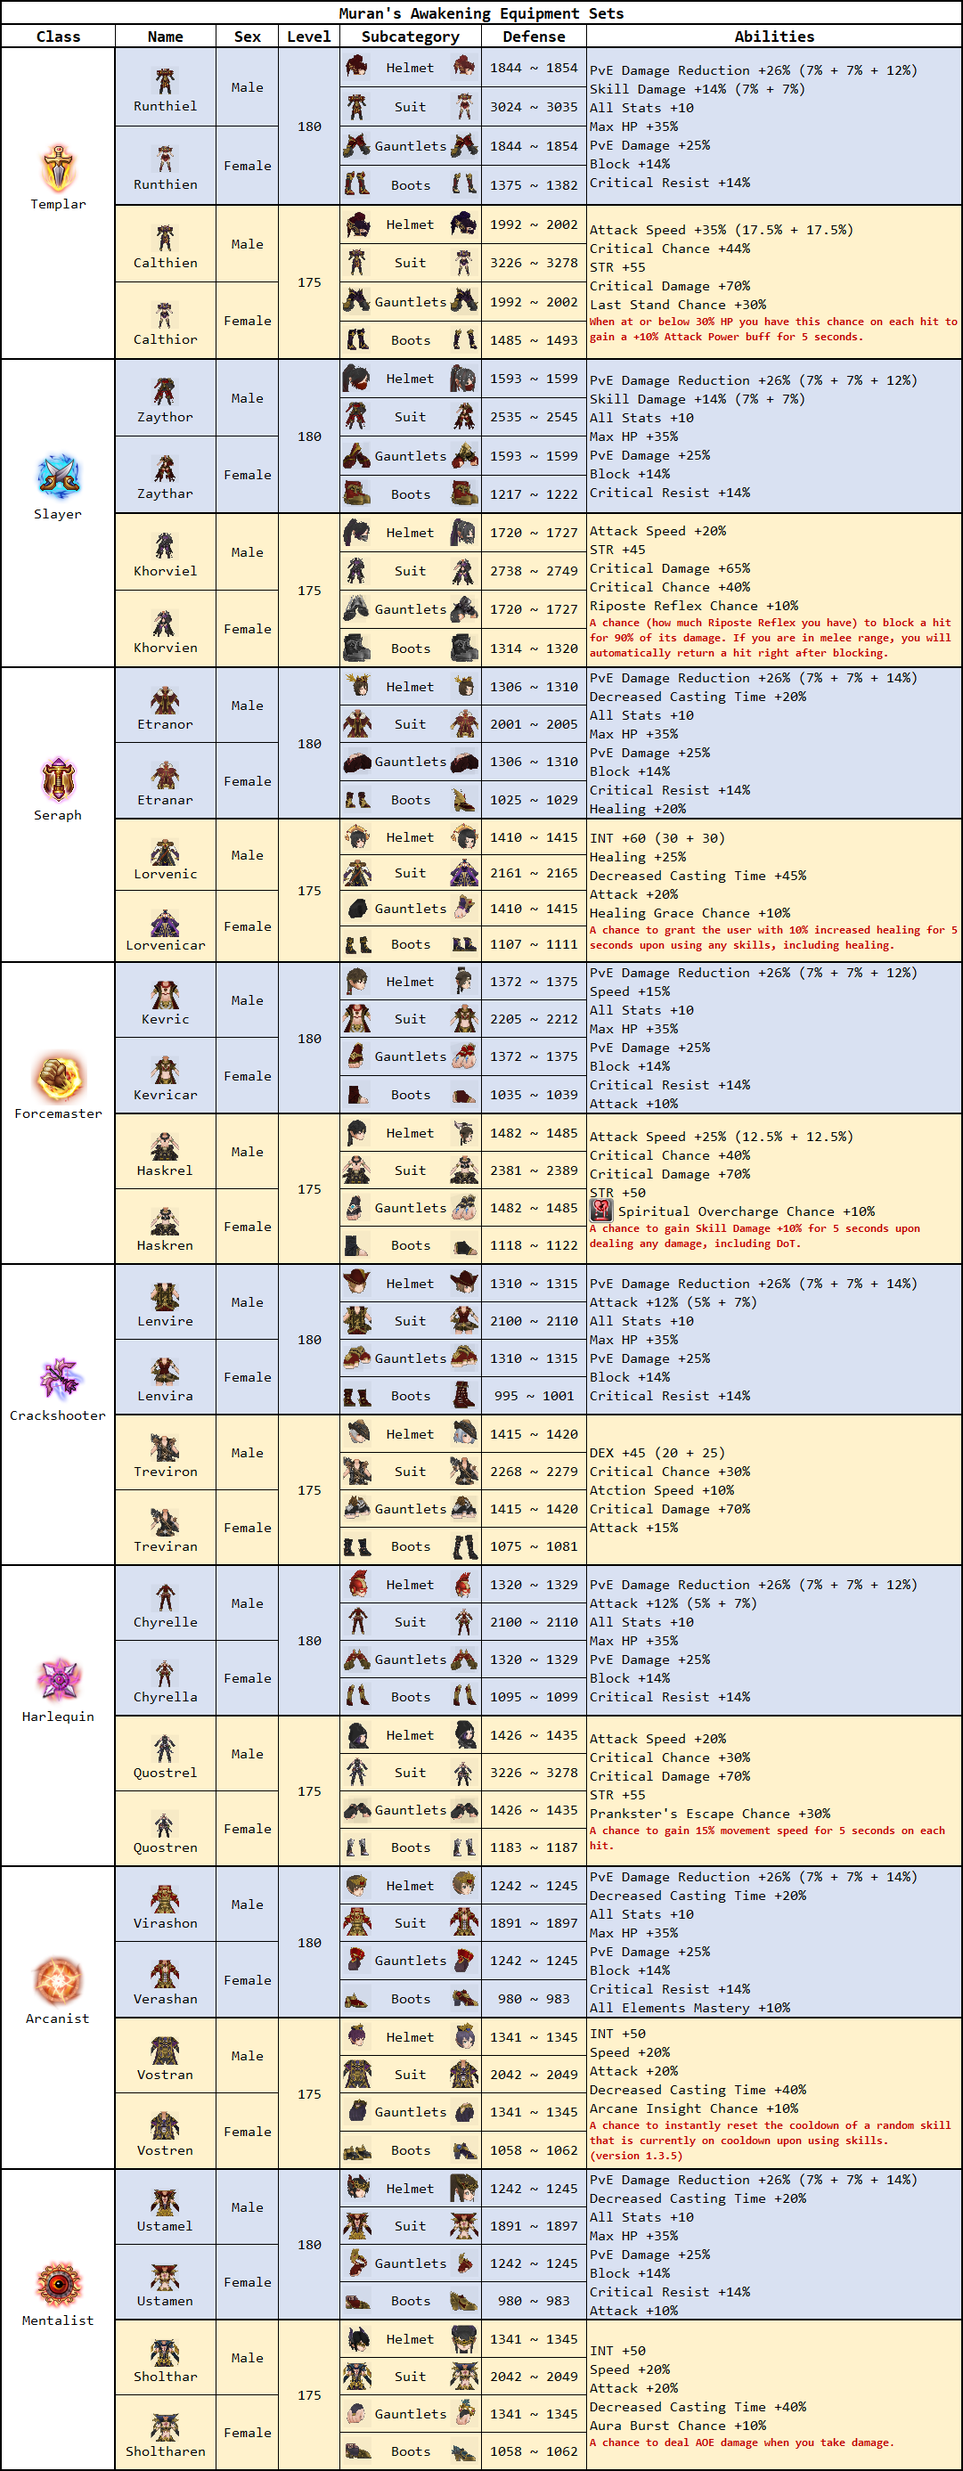
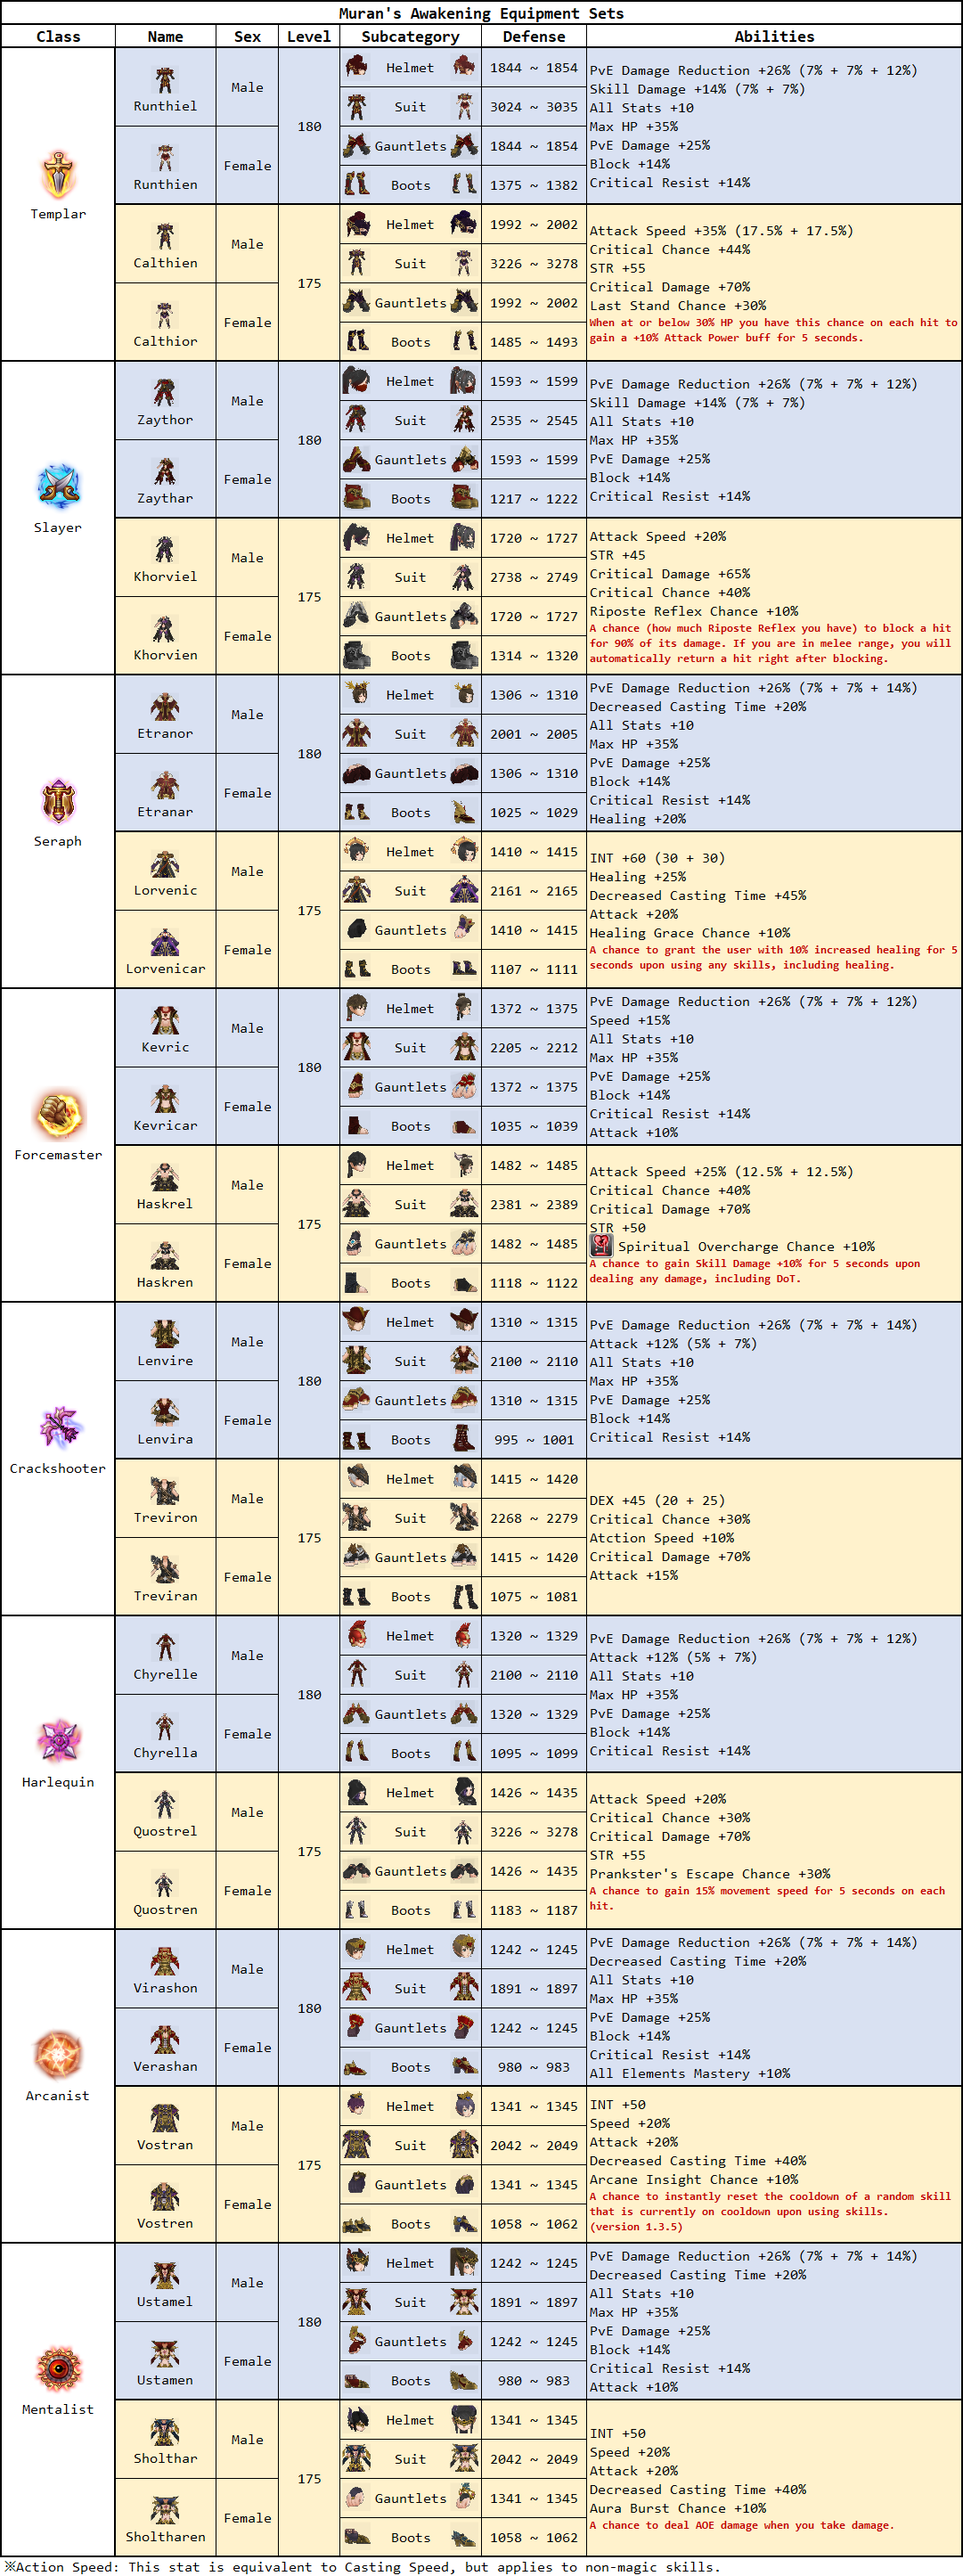
feat: update weapon&armor

diff --git a/README.md b/README.md
@@ -85,13 +85,13 @@
     - [🏹 weapon\&armor upgrade](#-weaponarmor-upgrade)
       - [event](#event)
       - [upgrade level bonus](#upgrade-level-bonus)
-    - [🆄🅻🆃🅸🅼🅰🆃🅴 ultimate](#-ultimate)
+    - [🆄🅻🆃🅸🅼🅰🆃🅴 ultimate weapons](#-ultimate-weapons)
       - [ultimate weapon](#ultimate-weapon)
-      - [lv150 weapon](#lv150-weapon)
-      - [lv175 weapon](#lv175-weapon)
-      - [lv180 weapon \& shield](#lv180-weapon--shield)
+      - [lv150 weapons](#lv150-weapons)
+      - [lv175 weapons](#lv175-weapons)
+      - [lv180 weapons \& shields](#lv180-weapons--shields)
       - [reroll weapons](#reroll-weapons)
-      - [ultimate jewelry](#ultimate-jewelry)
+    - [🆄🅻🆃🅸🅼🅰🆃🅴 ultimate jewelry](#-ultimate-jewelry)
     - [🦾 new horizon equipment sets](#-new-horizon-equipment-sets)
     - [🦾 muran's awakening equipment sets](#-murans-awakening-equipment-sets)
     - [💎 ultimate jewels](#-ultimate-jewels)
@@ -1532,7 +1532,7 @@ Those who have completed the Optional Master Quest during the event period will 
 
 </details></td></tr></table>
 
-### 🆄🅻🆃🅸🅼🅰🆃🅴 ultimate
+### 🆄🅻🆃🅸🅼🅰🆃🅴 ultimate weapons
 
 <table><tr><td><details><summary>details</summary>
 
@@ -1544,7 +1544,7 @@ Those who have completed the Optional Master Quest during the event period will 
 
 </details>
 
-#### lv150 weapon
+#### lv150 weapons
 
 <details><summary>details</summary>
 
@@ -1552,7 +1552,7 @@ Those who have completed the Optional Master Quest during the event period will 
 
 </details>
 
-#### lv175 weapon
+#### lv175 weapons
 
 <details><summary>details</summary>
 
@@ -1560,11 +1560,13 @@ Those who have completed the Optional Master Quest during the event period will 
 
 </details>
 
-#### lv180 weapon & shield
+#### lv180 weapons & shields
 
 <details><summary>details</summary>
 
 <div align="center"><img src="./upgrade/ultimate/lv180_ultimate_weapons&_shields.png" alt="lv180_ultimate_weapons&_shields.png"/></div>
+
+<div align="center"><img src="./upgrade/ultimate/lv180_ultimate_weapons&_shields_pvp.png" alt="lv180_ultimate_weapons&_shields_pvp.png"/></div>
 
 </details>
 
@@ -1580,9 +1582,11 @@ Those who have completed the Optional Master Quest during the event period will 
 
 </details>
 
-#### ultimate jewelry
+</details></td></tr></table>
 
-<details><summary>details</summary>
+### 🆄🅻🆃🅸🅼🅰🆃🅴 ultimate jewelry
+
+<table><tr><td><details><summary>details</summary>
 
 <div align="center"><img src="./upgrade/ultimate/ultimate_jewelry.png" alt="ultimate_jewelry.png"/></div>
 
@@ -1606,8 +1610,6 @@ Those who have completed the Optional Master Quest during the event period will 
     * (4/5) Set Effect : MP Recovery After Kill +500
     * (5/5) Set Effect : Magic Attack +5%, Decreased Casting Time +10%
 
-</details>
-
 </details></td></tr></table>
 
 ### 🦾 new horizon equipment sets
@@ -1623,6 +1625,8 @@ Those who have completed the Optional Master Quest during the event period will 
 <table><tr><td><details><summary>details</summary>
 
 <div align="center"><img src="./upgrade/murans_awakening_equipment_sets.png" alt="murans_awakening_equipment_sets.png"/></div>
+
+<div align="center"><img src="./upgrade/murans_awakening_equipment_sets_pvp.png" alt="murans_awakening_equipment_sets_pvp.png"/></div>
 
 </details></td></tr></table>
 
